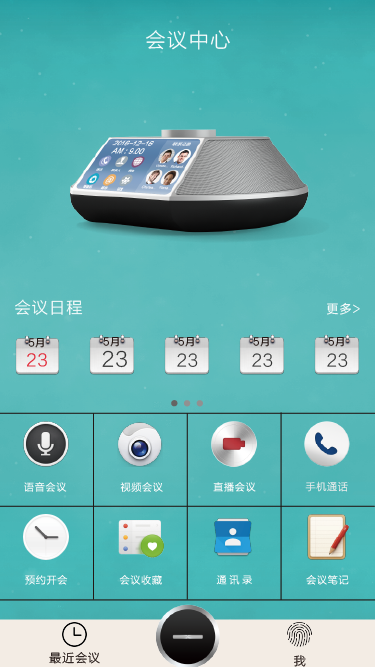
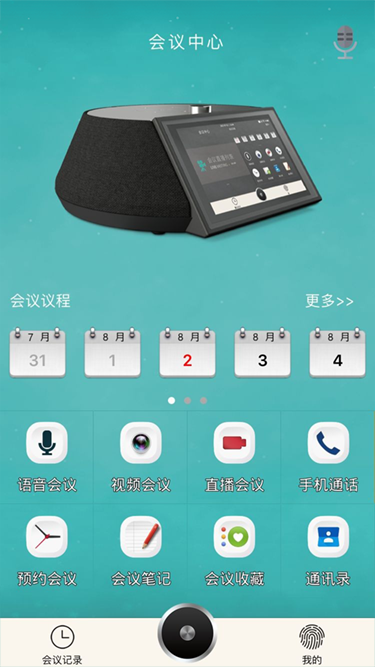
修改主题图片，修复来电被取消crash

diff --git a/M8Tool/M8Tool/ViewControllers/onMeeting/onLiveMeet/M8LiveViewController.m b/M8Tool/M8Tool/ViewControllers/onMeeting/onLiveMeet/M8LiveViewController.m
@@ -28,7 +28,10 @@
     
     [self initCall];
     
+    //隐藏菜单通知
     [WCNotificationCenter addObserver:self selector:@selector(onHiddeMenuView) name:kHiddenMenuView_Notifycation object:nil];
+    //收到App异常退出通知
+    [WCNotificationCenter addObserver:self selector:@selector(selfDismiss) name:kAppWillTerminate_Notification object:nil];
 }
 
 - (void)didReceiveMemoryWarning {
@@ -296,7 +299,6 @@
 
 - (void)selfDismiss
 {
-    
     BOOL ret = [M8UserDefault getPushMenuStatu];
     if (ret)
     {
@@ -308,7 +310,6 @@
     [self onNetReportExitRoom];
     
     TILLiveManager *manager = [TILLiveManager getInstance];
-//    __weak typeof(self) ws = self;
     [manager quitRoom:^{
 
     } failed:^(NSString *moudle, int errId, NSString *errMsg) {
@@ -412,6 +413,7 @@
 - (void)dealloc
 {
     [WCNotificationCenter removeObserver:self name:kHiddenMenuView_Notifycation object:nil];
+    [WCNotificationCenter removeObserver:self name:kAppWillTerminate_Notification object:nil];
 }
 
 @end

diff --git a/M8Tool/M8Tool/ViewControllers/onMeeting/onCallMeet/M8CallViewController.m b/M8Tool/M8Tool/ViewControllers/onMeeting/onCallMeet/M8CallViewController.m
@@ -36,6 +36,8 @@
     [WCNotificationCenter addObserver:self selector:@selector(onHiddeMenuView) name:kHiddenMenuView_Notifycation object:nil];
     //收到邀请成员通知
     [WCNotificationCenter addObserver:self selector:@selector(onReceiveInviteMembers) name:kInviteMembers_Notifycation object:nil];
+    //收到App异常退出通知
+    [WCNotificationCenter addObserver:self selector:@selector(selfDismiss) name:kAppWillTerminate_Notification object:nil];
     
 }
 
@@ -414,6 +416,7 @@
 {
     [WCNotificationCenter removeObserver:self name:kHiddenMenuView_Notifycation object:nil];
     [WCNotificationCenter removeObserver:self name:kInviteMembers_Notifycation object:nil];
+    [WCNotificationCenter removeObserver:self name:kAppWillTerminate_Notification object:nil];
 }
 
 @end

diff --git a/M8Tool/M8Tool/Base/AppDelegate.m b/M8Tool/M8Tool/Base/AppDelegate.m
@@ -146,7 +146,6 @@
     
     [[ILiveSDK getInstance] initSdk:[ILiveAppId intValue] accountType:[ILiveAccountType intValue]];
     
-    
     M8GlobalListener *globalListener = [[M8GlobalListener alloc] init];
     
     [[ILiveSDK getInstance] setConnListener:globalListener];
@@ -189,8 +188,16 @@
     
     
     //如果是会议中非正常退出App，则向视频中的发送下线消息
+    if ([M8UserDefault getIsInMeeting])
+    {
+        [WCNotificationCenter postNotificationName:kAppWillTerminate_Notification object:nil];
+    }
 }
 
+- (void)dealloc
+{
+    [WCNotificationCenter removeObserver:self name:kAppWillTerminate_Notification object:nil];
+}
 
 #pragma mark - Core Data stack
 

diff --git a/M8Tool/M8Tool/CommonUtil/ConstHeader.h b/M8Tool/M8Tool/CommonUtil/ConstHeader.h
@@ -149,6 +149,7 @@ typedef NS_ENUM(NSInteger, LastLoginType)   //上一次登录的类型
 #define kNewFriendStatu_Notification    @"kNewFriendStatu_Notification" //新好友存在或没有的状态变化通知
 #define kAppLaunchingNet_Notification   @"kAppLaunchingNet_Notification"//App启动中网络状态未连接通知
 #define kAppNetStatus_Notification      @"kAppNetStatus_Notification"   //App网络状态通知
+#define kAppWillTerminate_Notification  @"kAppWillTerminate_Notification"   //会议中App退出通知
 
 
 /******************** role string **********************/

diff --git a/M8Tool/M8Tool/ViewControllers/onMeeting/onCallMeet/M8CallViewController+CallListener.m b/M8Tool/M8Tool/ViewControllers/onMeeting/onCallMeet/M8CallViewController+CallListener.m
@@ -26,8 +26,9 @@
     self.membersArray = renderViewArray;
     
     [self.renderView updateWithRenderModelManager:renderModelManger
-                          bgViewIdentify:bgViewIdentify
-                               renderViewArray:renderViewArray];
+                                   bgViewIdentify:bgViewIdentify
+                                  renderViewArray:renderViewArray
+     ];
 }
 
 - (void)renderModelManger:(id)renderModelManger inviteMember:(NSString *)inviteMemberId

diff --git a/M8Tool/M8Tool/ViewControllers/onMeeting/onCallMeet/callMeetViews/M8CallRenderNote.m b/M8Tool/M8Tool/ViewControllers/onMeeting/onCallMeet/callMeetViews/M8CallRenderNote.m
@@ -113,7 +113,7 @@
     {
         if (model.tipInfo)
         {
-            NSAttributedString *tipAttStr = [self msgAttString:model.msgInfo];
+            NSAttributedString *tipAttStr = [self msgAttString:model.tipInfo];
             [textAttStr appendAttributedString:tipAttStr];
         }
     }
